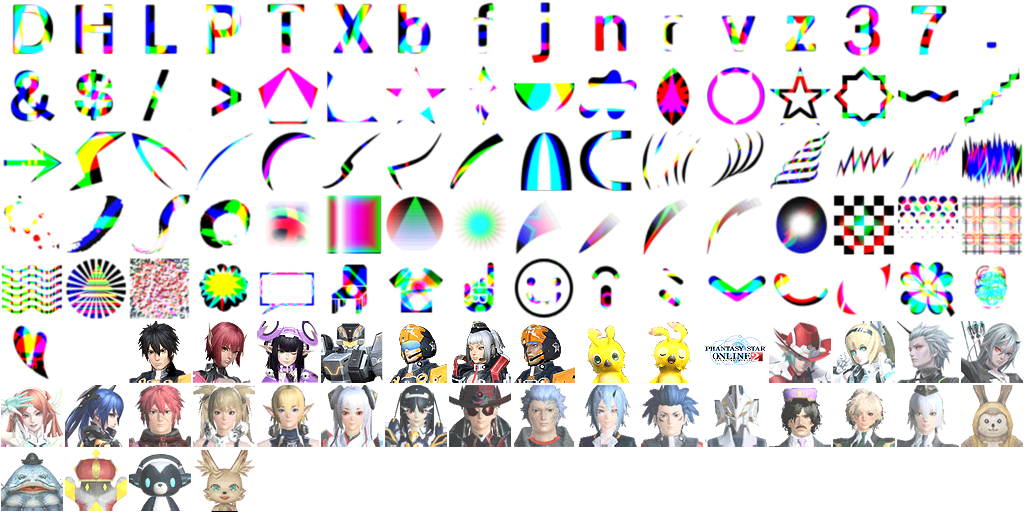
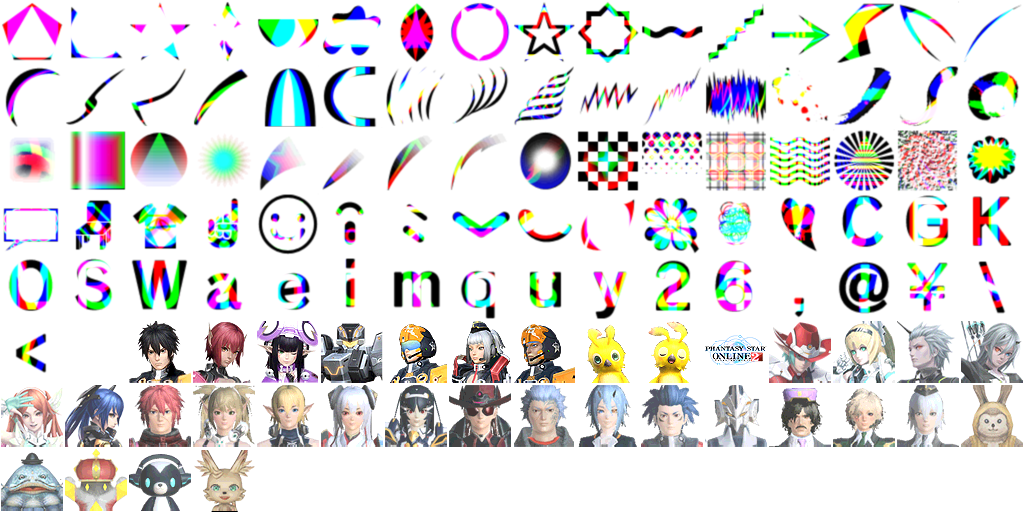
switch layer ordering and show shape on layer tab

Changed region(s): [[0.0, 0.0, 1.0, 0.75], [0.9688, 0.0, 1.0, 0.0312]]

diff --git a/src/store.js b/src/store.js
@@ -19,13 +19,13 @@ const newLayer = (
     b = 0,
     a = 255,
     ltx = -16,
-    lty = 16,
+    lty = -16,
     lbx = -16,
-    lby = -16,
+    lby = 16,
     rtx = 16,
-    rty = 16,
+    rty = -16,
     rbx = 16,
-    rby = -16
+    rby = 16
 ) => ({
     visibility: Boolean(visibility),
     type: Number(type),
@@ -77,7 +77,7 @@ const mutations = {
     loadSymbolArt(state, sa) {
         let parts = {}
         let treedata = []
-        for (let i = sa.layer.length-1; i >=0; i--) {
+        for (let i = sa.layer.length - 1; i >= 0; i--) {
             let l = sa.layer[i]._attributes
             let r = parseInt(l.color.substr(1, 2), 16)
             let g = parseInt(l.color.substr(3, 2), 16)
@@ -117,6 +117,7 @@ const mutations = {
         }
         DFT(0, state.treeData, updateList)
         state.requestRebuildList = list
+        state.selected = []
     },
     addLayer(state) {
         let id = ID()
@@ -188,13 +189,13 @@ export default new Vuex.Store({
 
 const convertType = t => {
     t= +t + 1
-    if (1 <= t && t <= 80) return t - 1
-    if (241 <= t && t <= 292) return t - 241 + 80
-    if (321 <= t && t <= 359) return t - 321 + 132
-    if (401 <= t && t <= 439) return t - 401 + 171
-    if (481 <= t && t <= 517) return t - 481 + 210
-    if (561 <= t && t <= 581) return t - 561 + 247
-    if (641 <= t && t <= 697) return t - 641 + 268
+    if (241 <= t && t <= 292) return t - 241 
+    if (321 <= t && t <= 359) return t - 321 + 52
+    if (401 <= t && t <= 439) return t - 401 + 91
+    if (481 <= t && t <= 517) return t - 481 + 130
+    if (561 <= t && t <= 581) return t - 561 + 167
+    if (641 <= t && t <= 697) return t - 641 + 188
+    if (1 <= t && t <= 80) return t - 1 + 245
     if (721 <= t && t <= 754) return t - 721 + 512
     return 0
 }

diff --git a/src/components/viewerEditor/VertexEditor.vue b/src/components/viewerEditor/VertexEditor.vue
@@ -3,7 +3,7 @@
 		v-show="layer"
         v-on:mousedown="onDragStart"
         viewBox="-127 -127 255 255"
-        transform="scale(1, -1)"
+        transform="scale(1, 1)"
 	>
         <g>
             <polygon 
@@ -65,7 +65,7 @@ export default {
             this.dragVertex = vert.split(' ')
             this.dragStartX = e.x
             this.dragStartY = e.y
-            let {lbx,lby, ltx, lty, rbx, rby, rtx,rty, ...rest} = this.layer
+            let {lbx, lby, ltx, lty, rbx, rby, rtx,rty, ...rest} = this.layer
             this.verticesBeforeDrag = {lbx, lby, ltx, lty, rbx, rby, rtx, rty }
             document.addEventListener('mousemove', this.onDragging, false)
             document.addEventListener('mouseup', this.onDragEnd, false)
@@ -74,7 +74,7 @@ export default {
             if(this.updateReady){
                 requestAnimationFrame(()=>{
                     let moveX=(e.x-this.dragStartX) * this.scale
-                    let moveY=(this.dragStartY-e.y) * this.scale
+                    let moveY=(e.y-this.dragStartY) * this.scale
                     let changedVertices = {}
                     for(let i = 0; i<this.dragVertex.length; i++){
                         let vertName = this.dragVertex[i]

diff --git a/src/components/viewerEditor/ViewCanvas.vue b/src/components/viewerEditor/ViewCanvas.vue
@@ -164,8 +164,8 @@ export default {
                 // x(-96 to 96) y(-48 to 48) wh=6
                 lx = 6 * col - 96
                 rx = 6 * col + 6 - 96
-                ty = -6 * row + 48
-                by = -6 * row - 6 + 48
+                ty = 6 * row - 48
+                by = 6 * row + 6 - 48
                 vertices.set([lx,by,lx,ty,rx,by,rx,ty],i*8)
                 col++
                 if(col === 32){
@@ -181,8 +181,8 @@ export default {
                 types.set([t,t,t,t],(i+325)*4)
                 lx = 6 * col - 96
                 rx = 6 * col + 6 - 96
-                ty = -6* row + 48
-                by = -6 * row - 6 + 48
+                ty = 6* row - 48
+                by = 6 * row + 6 - 48
                 vertices.set([lx,by,lx,ty,rx,by,rx,ty],(i+325)*8)
                 col++
                 if(col === 32){
@@ -234,6 +234,11 @@ export default {
                     row++
                 }
             }
+
+            this.renderer.updateTypes(this.types)
+            this.renderer.updateColors(this.colors)
+            this.renderer.updateVertices(this.vertices)
+            this.render()
             this.$store.commit('setShapeList',{shapeList})
         }
     },

diff --git a/src/components/partsList/LayerTab.vue b/src/components/partsList/LayerTab.vue
@@ -1,6 +1,6 @@
 <template>
     <div class="layer_tab" v-on:click.stop.prevent="select" :class="{selected:selected}">
-        <img class="image" :style="imageStyle">
+        <img class="image" :style="imageStyle" :src="imageSrc">
         <div>{{name}}</div>
     </div>
 </template>
@@ -9,24 +9,28 @@
 export default {
     props: {id:{type:Number, required:true}},
     computed:{
-        selected: function(){
+        selected(){
             return this.part.selected
         },
-        part: function(){
+        part(){
             return this.$store.state.parts[this.id]
         },
-        name: function(){
+        name(){
             return this.part.name
         },
-        imageStyle: function(){
+        imageStyle(){
             let p = this.part
             return {
                 backgroundColor:'rgb('+p.r+','+p.g+','+p.b+','+p.a/255+')'
             }
+        },
+        imageSrc() {
+            let i = this.part.type >= 512? this.part.type - 512 + 325: this.part.type
+            return this.$store.state.shapeList[i].url
         }
     },
     methods: {
-        select: function(){
+        select(){
             this.$store.commit("select", this.id)
         },
     }

diff --git a/src/components/header/Menu.vue b/src/components/header/Menu.vue
@@ -17,8 +17,8 @@ export default {
                 {
                     value: 'File',
                     options: [
-                        {value: 'import', options: ['saml']},
-                        'more options will come'
+                        {value: 'Import from', options: ['.saml file']},
+                        'more will be added'
                     ]
                 },
                 {
@@ -44,7 +44,7 @@ export default {
     methods: {
         onOption(value){
             switch(value){
-                case 'File/import/saml': {
+                case 'File/Import from/.saml file': {
                     const x = document.createElement("INPUT")
                     x.setAttribute("type", "file")
                     x.click()

diff --git a/src/components/viewerEditor/SymbolArtDrawer.js b/src/components/viewerEditor/SymbolArtDrawer.js
@@ -130,27 +130,27 @@ const initPostShader = gl => {
         -128,
         127,
         0,
-        127,
-        -128,
-        -128,
-        0,
-        0,
-        127,
-        -128,
-        127,
         0,
         -128,
-        127,
+        -128,
         0,
         127,
         127,
         -128,
         127,
+        127,
+        -128,
+        127,
+        0,
         0,
         127,
+        -128,
         127,
         127,
         127,
+        127,
+        127,
+        0,
     ])
 
     gl.useProgram(program)

diff --git a/src/components/FooterBar.vue b/src/components/FooterBar.vue
@@ -1,6 +1,6 @@
 <template>
     <div class="footer">
-        Welcome to Symbol Art Maker, a project aiming to make the process of symbol art creation easy and enjoyable.  Please be patient while the project is under construction.
+        Welcome to Symbol Art Maker. The project is under construction.
     </div>
 </template>
 

diff --git a/src/components/colorShapeEditor/ShapeEditor.vue b/src/components/colorShapeEditor/ShapeEditor.vue
@@ -66,6 +66,9 @@ export default {
     width: 100%;
     height: 100%;
 }
+.active{
+    background-color:rgb(72, 177, 177);
+}
 </style>
 
 
